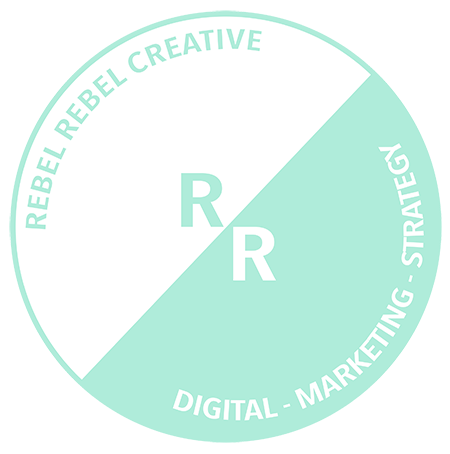
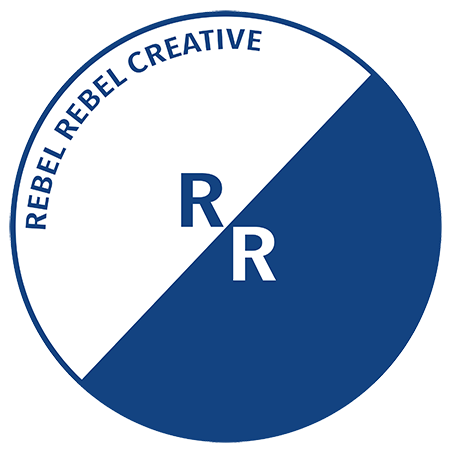
updated colors

diff --git a/app/assets/css/freelancer.css b/app/assets/css/freelancer.css
@@ -18,7 +18,7 @@ p.small {
 }
 
 a, a.active, a:active, a:focus, a:hover {
-  color: #18BC9C;
+  color: #81d1f0;
   outline: none;
 }
 
@@ -34,7 +34,7 @@ hr.star-light, hr.star-primary {
   padding: 0;
   text-align: center;
   border: none;
-  border-top: solid 5px;
+  border-top: solid 0px;
 }
 
 hr.star-light:after, hr.star-primary:after {
@@ -44,7 +44,7 @@ hr.star-light:after, hr.star-primary:after {
   top: -.8em;
   display: inline-block;
   padding: 0 0.25em;
-  content: '\f005';
+  content: '\f20e';
 }
 
 hr.star-light {
@@ -53,7 +53,7 @@ hr.star-light {
 
 hr.star-light:after {
   color: white;
-  background-color: #18BC9C;
+  background-color: none;
 }
 
 hr.star-primary {
@@ -80,7 +80,7 @@ section h2 {
 
 section.success {
   color: white;
-  background: #18BC9C;
+  background: #81d1f0;
 }
 
 @media (max-width: 767px) {
@@ -144,7 +144,7 @@ section.success {
 }
 
 #mainNav .navbar-nav li.nav-item a.nav-link:hover {
-  color: #18BC9C;
+  color: #81d1f0;
   outline: none;
 }
 
@@ -162,8 +162,8 @@ section.success {
 
 #mainNav .navbar-toggler:focus, #mainNav .navbar-toggler:hover {
   color: white;
-  border-color: #18BC9C;
-  background-color: #18BC9C;
+  border-color: #81d1f0;
+  background-color: #81d1f0;
 }
 
 @media (min-width: 992px) {
@@ -183,11 +183,11 @@ section.success {
   #mainNav .navbar-nav>li.nav-item>a.nav-link.active {
     color: white;
     border-radius: 3px;
-    background: #18BC9C;
+    background: #81d1f0;
   }
   #mainNav .navbar-nav>li.nav-item>a.nav-link.active:active, #mainNav .navbar-nav>li.nav-item>a.nav-link.active:focus, #mainNav .navbar-nav>li.nav-item>a.nav-link.active:hover {
     color: white;
-    background: #18BC9C;
+    background: #81d1f0;
   }
   #mainNav.navbar-shrink {
     padding-top: 10px;
@@ -203,7 +203,7 @@ header.masthead {
   padding-bottom: 50px;
   text-align: center;
   color: white;
-  background: #18BC9C;
+  background: #81d1f0;
 }
 
 header.masthead img {
@@ -418,7 +418,7 @@ header.masthead .intro-text .skills {
 }
 
 .floating-label-form-group-with-focus label {
-  color: #18BC9C;
+  color: #81d1f0;
 }
 
 form .row:first-child .floating-label-form-group {
@@ -457,7 +457,7 @@ footer .footer-below {
 }
 
 .btn-outline.active, .btn-outline:active, .btn-outline:focus, .btn-outline:hover {
-  color: #18BC9C;
+  color: #81d1f0;
   border: solid 2px white;
   background: white;
 }
@@ -510,8 +510,8 @@ footer .footer-below {
 .btn-success {
   font-weight: 700;
   color: white;
-  border-color: #18BC9C;
-  background-color: #18BC9C;
+  border-color: #81d1f0;
+  background-color: #81d1f0;
 }
 
 .btn-success.focus, .btn-success:focus {
@@ -543,12 +543,12 @@ footer .footer-below {
 }
 
 .btn-success.disabled.focus, .btn-success.disabled:focus, .btn-success.disabled:hover, .btn-success[disabled].focus, .btn-success[disabled]:focus, .btn-success[disabled]:hover, fieldset[disabled] .btn-success.focus, fieldset[disabled] .btn-success:focus, fieldset[disabled] .btn-success:hover {
-  border-color: #18BC9C;
-  background-color: #18BC9C;
+  border-color: #81d1f0;
+  background-color: #81d1f0;
 }
 
 .btn-success .badge {
-  color: #18BC9C;
+  color: #81d1f0;
   background-color: white;
 }
 

diff --git a/index.html b/index.html
@@ -22,8 +22,8 @@
   <link href="https://fonts.googleapis.com/css?family=Lato:400,700,400italic,700italic" rel="stylesheet" type="text/css">
 
   <!-- Custom styles for this template -->
-  <link href="./app/assets/css/freelancer.min.css" rel="stylesheet">
-  <link href="./app/assets/css/mediaq.css" rel="stylesheet">
+  <link href="./app/assets/css/freelancer.css" rel="stylesheet">
+  <link href="./app/assets/css/main.css" rel="stylesheet">
 
 </head>
 
@@ -56,7 +56,7 @@
   <!-- Header -->
   <header class="masthead">
     <div class="container">
-      <img class="img-fluid" src="app/assets/img/rebelrebel.jpg" alt="">
+      <img class="img-fluid" src="app/assets/img/rebelrebel.png" alt="">
       <div class="intro-text">
         <span class="name"><h1>Design - Marketing - Strategy</h1></span>
       </div>

diff --git a/app/assets/css/main.css b/app/assets/css/main.css
@@ -1,3 +1,16 @@
+/* Background */
+
+header.masthead {
+  background-image: url("../img/background.png");
+  background-size: cover;
+}
+
+section#about.success {
+  background-image: url("../img/background.png");
+  background-size: cover;
+}
+
+
 /* ----------- iPhone 4 and 4S ----------- */
 
 
